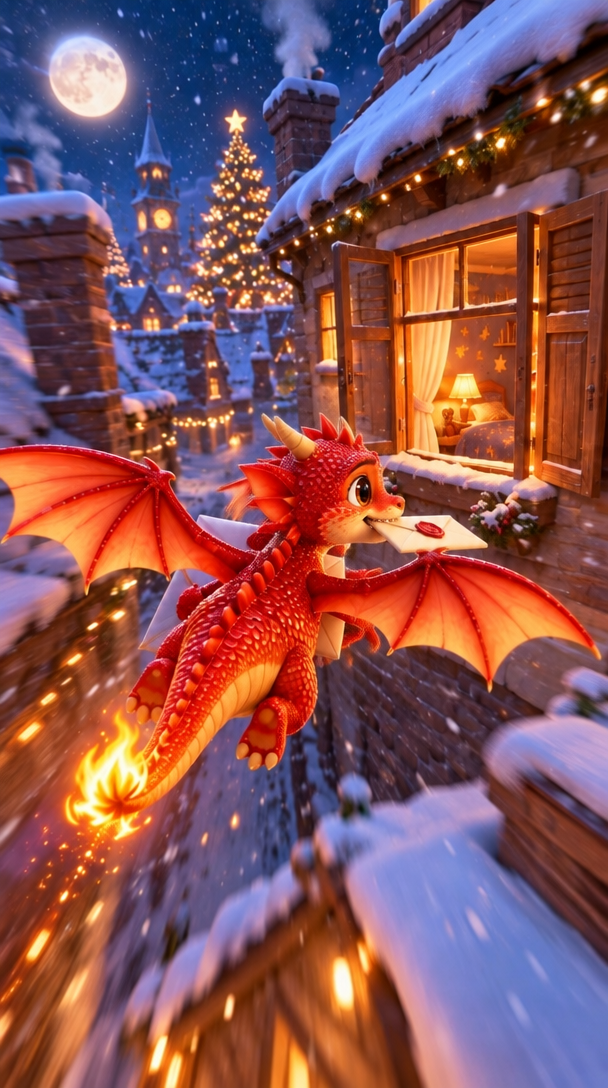
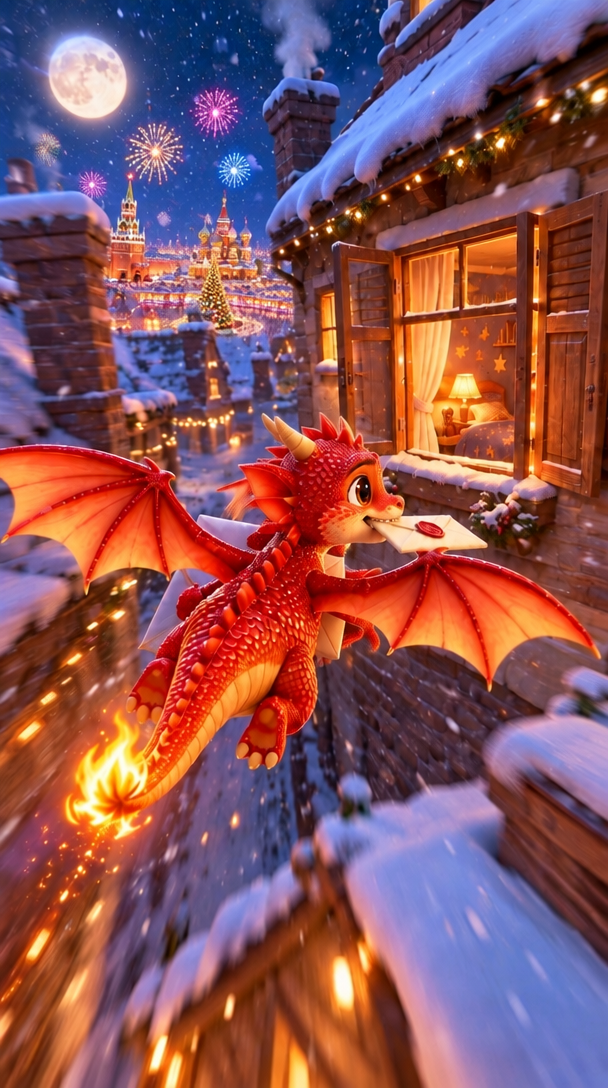
Полёт Огонька: Москва не пропадает, переход в комнату через занавеску, без замедления у моста
Claude-Session: https://claude.ai/code/session_01TXwNN2je3RbbmpXYz6m2NX

diff --git a/polet/klipy2.py b/polet/klipy2.py
@@ -9,17 +9,18 @@ VPERED=" He keeps looking FORWARD in the direction of flight, his head in side p
 J={
 "12":("1","2","The dragon races low along the snowy forest path between fir trees, then the forest opens onto a frozen river and he speeds toward the old stone bridge while the steam train crosses above."+VPERED+FPV),
 "23":("2","3","The dragon dives under the stone bridge, bursts out the other side and soars steeply up into the sky above the glowing festive city with fireworks; at the very end he turns his head and glances back at the camera with a cheerful smile."+FPV),
-"34":("3","4","The dragon turns his head forward again, banks and dives from the sky down to the snowy rooftops, flies fast between chimneys toward a warmly lit slightly open window."+VPERED+FPV),
+"34":("3","4","The dragon turns his head forward again, banks and dives from the sky down to the snowy rooftops, flies fast between chimneys toward a warmly lit slightly open window. The Moscow skyline with the red Kremlin towers, the colorful onion domes of the cathedral and the big New Year tree STAYS visible in the distance the whole time, it never disappears or changes."+VPERED+FPV),
 "45":("4","5","The dragon slows down and glides in through the open window into the cozy child's bedroom, the camera follows him inside; he lands softly on the pillow next to the sleeping child, "
       "takes the envelope out of his mouth with his front paws and carefully lays it on the pillow, then raises one claw to his lips: shh. The child keeps sleeping, face hidden."),
 "5w":("5","5","The little dragon keeps one claw at his lips (shh), looks right into the camera, gives a big cute playful WINK with one eye, smiles sweetly; "
       "the flame on his tail flickers, tiny golden sparkles float. The envelope lies still on the pillow. The camera is almost still, very slow push-in."),
 }
+J["45"]=("4","5","The dragon slows down and glides in through the open window into the cozy child's bedroom, the camera follows him inside; he lands softly on the pillow next to the sleeping child, bows his head down and gently DROPS the envelope FROM HIS MOUTH onto the pillow, then raises one claw to his lips: shh. STRICT: the envelope stays IN HIS MOUTH, gripped in his teeth, the WHOLE time until he drops it onto the pillow; his front paws NEVER touch or hold the envelope. Exactly ONE closed cream envelope with a red wax seal, always the same size (about 1.5 times as wide as his head), never grows, never shrinks, never doubles, never opens. The dragon looks exactly the same all the time. The child keeps sleeping, face hidden. No new objects, no text. High-quality 3D animated film motion, smooth. The bedroom layout never changes: the bed with the sleeping child stands right under the window, exactly as in the end frame.")
 def odin(k):
     out=f"klipy/{k}.mp4"
     if os.path.exists(out): return k+" есть"
     a,b,p=J[k]
-    cel=CEL if k not in ("45","5w") else CEL.replace("IN HIS MOUTH, gripped in his teeth","(in his mouth, then on the pillow)").replace(", never moves into his paws","")
+    cel="" if k=="45" else CEL if k!="5w" else CEL.replace("IN HIS MOUTH, gripped in his teeth","(in his mouth, then on the pillow)").replace(", never moves into his paws","")
     r=fal_client.subscribe("kling/v4/image-to-video",arguments={"prompt":p+cel,"start_image_url":fal_client.upload_file(f"kadry/{a}.png"),
         "end_image_url":fal_client.upload_file(f"kadry/{b}.png"),"duration":5,"resolution":"720p"})
     urllib.request.urlretrieve(r["video"]["url"],out); return k+" ok"

diff --git a/polet/montazh.py b/polet/montazh.py
@@ -11,19 +11,20 @@ Style: N,Inter ExtraBold,46,&H00FFFFFF,&H00FFFFFF,&H00202020,&H64000000,0,0,0,0,
 
 [Events]
 Format: Layer, Start, End, Style, Name, MarginL, MarginR, MarginV, Effect, Text
-Dialogue: 0,0:00:00.10,0:00:09.60,T,,0,0,0,,{\\fad(200,250)}Куда летит Огонёк\\Nв новогоднюю ночь?
-Dialogue: 0,0:00:14.80,0:00:19.80,N,,0,0,0,,{\\fad(250,0)}Напиши имя ребёнка\\Nв комментариях,\\N{\\c&H0033D7FF&}и Огонёк прилетит к нему
+Dialogue: 0,0:00:00.10,0:00:09.30,T,,0,0,0,,{\\fad(200,250)}Куда летит Огонёк\\Nв новогоднюю ночь?
+Dialogue: 0,0:00:13.90,0:00:18.60,N,,0,0,0,,{\\fad(250,0)}Напиши имя ребёнка\\Nв комментариях,\\N{\\c&H0033D7FF&}и Огонёк прилетит к нему
 """
 open("tekst.ass","w",encoding="utf-8").write(ass)
-K=["12","23","34","45","5w"]
-SEG=[(0.0,5.0),(0.05,5.0),(0.04,5.0),(0.04,5.0),(0.04,5.0)]
-SP=[1.5,1.5,1.5,1.0,1.0]
-f=[]; ins=[]; L=[]
-for i,k in enumerate(K):
-    ins+=["-i",f"klipy/{k}.mp4"]
-    a,b=SEG[i]; L.append((b-a)/SP[i])
-    f.append(f"[{i}:v]trim={a}:{b},setpts=(PTS-STARTPTS)/{SP[i]},fps=30,scale=720:1280:force_original_aspect_ratio=increase,crop=720:1280,setsar=1,format=yuv420p[v{i}]")
-print("длина",round(sum(L),2),"финал с",round(sum(L[:3]),2))
-f.append("[v0][v1][v2][v3][v4]concat=n=5:v=1:a=0,fade=t=in:st=0:d=0.2,fade=t=out:st=19.3:d=0.5,ass=tekst.ass[v]")
+PL=[("12",0.0,4.14,1.5),("12",4.14,5.0,3.0),("23",0.04,0.5,3.0),("23",0.5,5.0,1.5),("34",0.04,5.0,1.5),
+    ("45",0.04,1.75,1.0),("45",2.55,5.0,1.0),("5w",0.04,5.0,1.0)]
+files=[]; f=[]; t=0; mark={}
+for i,(k,a,b,sp) in enumerate(PL):
+    if k not in files: files.append(k)
+    mark.setdefault(k,t); t+=(b-a)/sp
+    f.append(f"[{files.index(k)}:v]trim={a}:{b},setpts=(PTS-STARTPTS)/{sp},fps=30,scale=720:1280:force_original_aspect_ratio=increase,crop=720:1280,setsar=1,format=yuv420p[v{i}]")
+ins=[]
+for k in files: ins+=["-i",f"klipy/{k}.mp4"]
+print("длина",round(t,2),"метки",{k:round(v,2) for k,v in mark.items()})
+f.append("".join(f"[v{i}]" for i in range(len(PL)))+f"concat=n={len(PL)}:v=1:a=0,fade=t=in:st=0:d=0.2,fade=t=out:st={t-0.5:.2f}:d=0.5,ass=tekst.ass[v]")
 subprocess.run(["ffmpeg","-v","error","-y"]+ins+["-filter_complex",";".join(f),"-map","[v]","-c:v","libx264","-profile:v","high",
   "-pix_fmt","yuv420p","-crf","19","-movflags","+faststart","rils_polet_ogonka.mp4"],check=True)
